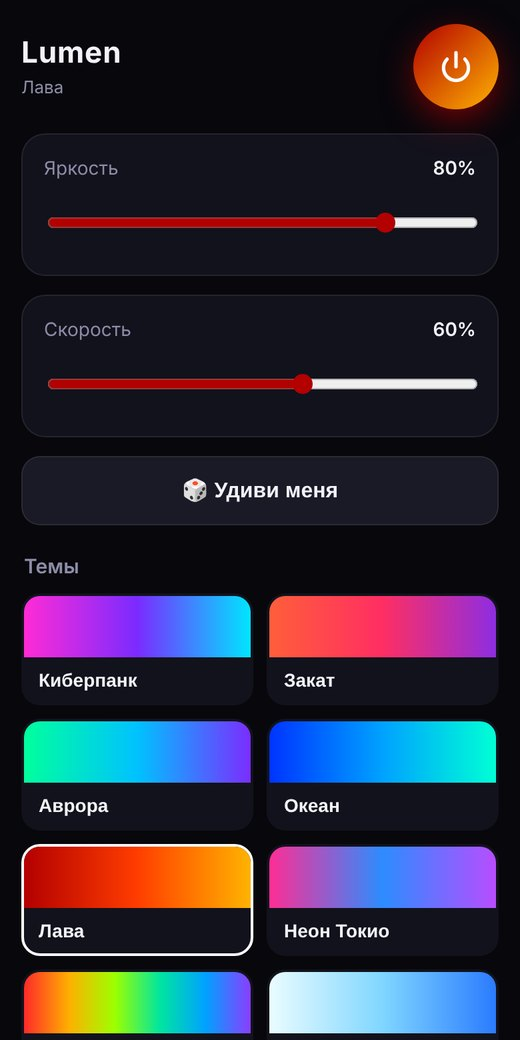
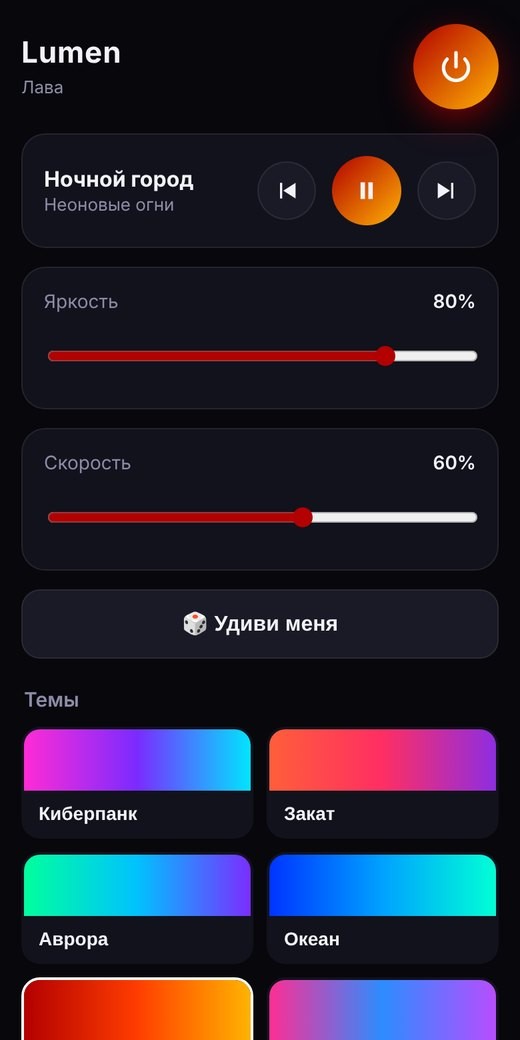
README: новые скриншоты и описание (плеер, виджеты с кнопками, стили, поиск, уведомления); 2.12.3: видимый значок паузы на белых акцентах
Claude-Session: https://claude.ai/code/session_01JcJcj891ukA1819nBtvFLd

diff --git a/src/renderer/live.html b/src/renderer/live.html
@@ -87,6 +87,7 @@
     /* Акценты белым вместо цветов темы */
     #w.ac-white{--a:#ffffff;--b:#cfd3ff}
     #w.ac-white .bar i{background:rgba(255,255,255,.85)}
+    #w.ac-white .mu .cb.pp svg{fill:#14121f}
   </style>
 </head>
 <body>

diff --git a/README.md b/README.md
@@ -31,6 +31,7 @@
 - **Одна программа вместо пяти.** У каждого производителя своя утилита для подсветки, и они мешают друг другу. Lumen управляет всем сразу: встроенный движок [OpenRGB](https://openrgb.org) и «Динамическая подсветка» Windows 11.
 - **Красиво из коробки.** 19 готовых тем — нажал, и подсветка, цвет Windows и обои на рабочем столе стали одного настроения.
 - **Не мешает играть.** Почти не тратит процессор и видеокарту, сам замирает в играх и полноэкранных окнах.
+- **Музыка, погода и система — прямо на рабочем столе.** Виджеты с плеером, текстом песни, календарём и нагрузкой компьютера, в цвет подсветки.
 - **Бесплатно и открыто.** Без рекламы, регистрации и сбора данных. Весь код — здесь, установщик собирается автоматически на GitHub.
 
 ## Что умеет
@@ -41,19 +42,40 @@
 
 <p align="center"><img src="docs/media/effects.jpg" alt="Эффекты" width="880"></p>
 
-### 🖥 Рабочий стол под цвет подсветки
+### 🎵 Музыка
 
-Lumen красит **панель задач, меню «Пуск» и окна** в цвет темы и меняет обои: живые волны, абстракции или **фото в высоком разрешении** из каталога Wallhaven — под твой монитор, со слайд-шоу. Выйдешь из Lumen — прежнее оформление вернётся.
+- **Плеер прямо в Lumen** — обложка и кнопки «назад / пауза / вперёд» для Spotify, Яндекс Музыки, браузера и Медиаплеера Windows.
+- **Цвет под музыку** — подсветка, цвет Windows и обои берут цвета с обложки трека.
+- **Реакция на звук** — подсветка пульсирует в такт.
+
+<p align="center"><img src="docs/media/home.jpg" alt="Главный экран с плеером" width="880"></p>
 
 ### 📊 Виджеты на рабочем столе
 
-**Часы, погода с прогнозом на 3 дня, загрузка и температура** процессора, памяти и видеокарты, скорость сети, **«Сейчас играет» с обложкой и строчкой из текста песни**, календарь и заметка — прямо на обоях, за значками. Четыре стиля оформления (стекло, плотные, без подложки, неон), разные шрифты часов, любой угол и размер.
+Прямо на обоях, за значками:
+
+- **часы** и дата, **погода** с прогнозом на 3 дня;
+- **нагрузка** процессора, памяти и видеокарты, температура, сеть, диск;
+- **«Сейчас играет»** — обложка, **кнопки плеера, которые нажимаются прямо на рабочем столе**, и **строчка из текста песни**, которая звучит в эту секунду;
+- **календарь** на месяц и **заметка** с любым текстом.
 
 <p align="center"><img src="docs/media/wallpaper.jpg" alt="Живые обои и виджеты на рабочем столе" width="880"></p>
 
+Четыре стиля — стекло, плотные, без подложки, неон — три шрифта часов, акценты в цвет подсветки или белые, любой угол и размер. Виджеты почти не тратят ресурсов и замирают, когда рабочий стол закрыт игрой или окном.
+
+<p align="center"><img src="docs/media/widget-styles.jpg" alt="Четыре стиля виджетов" width="880"></p>
+
+### 🖥 Windows под цвет подсветки
+
+Lumen красит **панель задач, меню «Пуск» и окна** в цвет темы и меняет обои: живые волны, абстракции или **фото в высоком разрешении** из каталога Wallhaven — под твой монитор, со слайд-шоу. Выйдешь из Lumen — прежнее оформление вернётся.
+
+### 🔔 Подсветка от уведомлений
+
+Пришло сообщение в Discord, Telegram, WhatsApp или VK — подсветка вспыхивает цветом приложения. **Вспышку видно на любой подсветке**: перед ней свет на миг гаснет, а если цвет приложения похож на текущий, Lumen берёт самый непохожий. Текст сообщений Lumen не читает.
+
 ### 📱 Пульт на телефоне
 
-Наведи камеру на QR-код в настройках — и управляй подсветкой с телефона: включить, выключить, яркость, темы. **Без приложений**, прямо в браузере, только в твоей домашней сети.
+Наведи камеру на QR-код в настройках — и управляй с телефона: включить, выключить, яркость, темы и **переключение треков**. **Без приложений**, прямо в браузере, только в твоей домашней сети.
 
 <p align="center">
   <img src="docs/media/phone.jpg" alt="Пульт на телефоне" height="420">
@@ -61,30 +83,28 @@ Lumen красит **панель задач, меню «Пуск» и окна*
   <img src="docs/media/settings-phone.jpg" alt="QR-код в настройках" height="420">
 </p>
 
-### 🎵 Подсветка, которая живёт
-
-- **Плеер прямо в Lumen** — обложка и кнопки «назад / пауза / вперёд» для Spotify, Яндекс Музыки и браузера, в окне и на телефоне.
-- **Цвет под музыку** — берёт цвета с обложки трека в Spotify, Яндекс Музыке или YouTube.
-- **Реакция на звук** — пульсирует в такт.
-- **Цвет экрана** — повторяет картинку на мониторе, как Ambilight.
-- **Температура** — синий, когда видеокарта холодная, красный, когда горячая.
-- **Уведомления** — мягкая вспышка цветом Discord, Telegram, WhatsApp, VK.
-
-<p align="center"><img src="docs/media/settings-widgets.jpg" alt="Настройки виджетов и уведомлений" width="880"></p>
-
 ### 🎮 Сценарии
 
 Запустил игру — включилась её тема. Ночью — тёплый ночник или полная темнота. Отошёл от компьютера или заблокировал его — подсветка погасла. Вернулся — зажглась. **Горячие клавиши** работают даже в играх.
 
 <p align="center"><img src="docs/media/scenes.jpg" alt="Сценарии" width="880"></p>
 
-И ещё: **поиск по всем настройкам** (Ctrl+K), мини-гайд для новичков при первом запуске, **автообновление** с проверкой контрольной суммы, отчёт о проблеме одной кнопкой, интерфейс на **русском, английском, украинском, немецком и испанском**.
+### 🔍 И ещё
+
+- **Поиск по всему Lumen** — Ctrl+K: вбей «обои», «яркость» или «Лава», и Lumen сразу перейдёт к нужной настройке, теме или эффекту.
+- **Цвет экрана** (как Ambilight) и **температура** видеокарты — отдельные эффекты.
+- **Автообновление** с проверкой контрольной суммы, **отчёт о проблеме** одной кнопкой, мини-гайд для новичков.
+- Интерфейс на **русском, английском, украинском, немецком и испанском**.
+
+<p align="center"><img src="docs/media/search.jpg" alt="Поиск по настройкам" width="880"></p>
 
 ## Какое железо поддерживается
 
 Lumen работает через [OpenRGB](https://openrgb.org/devices.html) — он знает **тысячи устройств**: материнские платы ASUS Aura, MSI Mystic Light, Gigabyte RGB Fusion, ASRock, видеокарты, оперативную память (G.Skill, Kingston Fury, Corsair и др.), контроллеры вентиляторов и ленты, клавиатуры и мыши Corsair, Logitech, Razer, SteelSeries, HyperX. Плюс всё, что поддерживает «Динамическую подсветку» Windows 11.
 
-Подсветка оперативной памяти включается одной кнопкой — нужный драйвер Lumen поставит сам. А вентиляторы **Lian Li UNI FAN TL** Lumen умеет красить напрямую через их контроллер, без L-Connect (бета).
+- **Оперативная память** — включается одной кнопкой, нужный драйвер Lumen поставит сам.
+- **Вентиляторы и ленты на разъёмах платы** — Lumen сам подставит количество светодиодов, а точное число выбирается кнопками 8 · 12 · 16 · 24 · 40 · 60 · 80.
+- **Вентиляторы Lian Li UNI FAN TL** — напрямую через их контроллер, без L-Connect (бета).
 
 ## Установка
 
@@ -110,7 +130,13 @@ Free code signing provided by [SignPath.io](https://about.signpath.io), certific
 <details>
 <summary><b>Это безопасно?</b></summary>
 
-Код полностью открыт, а установщик собирается из него автоматически на серверах GitHub — каждую версию можно проверить. Lumen ничего не отправляет в интернет, кроме запросов погоды, фото для обоев (если включил) и проверки обновлений. Текст твоих уведомлений он не читает — только от какого приложения они пришли.
+Код полностью открыт, а установщик собирается из него автоматически на серверах GitHub — каждую версию можно проверить. Lumen ходит в интернет только за погодой, фото для обоев и текстами песен (если они включены) и за обновлениями. Текст твоих уведомлений он не читает — только от какого приложения они пришли.
+</details>
+
+<details>
+<summary><b>Кнопки плеера на рабочем столе — не забанят ли в играх?</b></summary>
+
+Lumen замечает щелчки по кнопкам виджета, только пока виден рабочий стол: как только открыта игра на весь экран или развёрнутое окно, слежение за мышью полностью выключается. Lumen ничего не нажимает за тебя и не трогает другие программы — так же работают Discord («нажми и говори»), OBS и G HUB. Если хочется полного спокойствия, кнопки выключаются в настройках виджетов («кнопки плеера»).
 </details>
 
 <details>
@@ -136,7 +162,7 @@ Free code signing provided by [SignPath.io](https://about.signpath.io), certific
 
 ## English
 
-**Lumen** is a free, open-source Windows 10/11 app that controls all your PC RGB lighting from one place — motherboard, GPU, RAM, fans, keyboard and mouse — without SignalRGB, iCUE or vendor tools. It ships with 19 themes and 15 effects (wave, fire, music-reactive, screen ambient, GPU temperature), matches the Windows accent color and wallpaper to your lighting, shows desktop widgets (clock, weather, system load), flashes on notifications, takes colors from the album art of the current track and can be controlled from your phone. The UI is available in English, Russian, Ukrainian, German and Spanish.
+**Lumen** is a free, open-source Windows 10/11 app that controls all your PC RGB lighting from one place — motherboard, GPU, RAM, fans, keyboard and mouse — without SignalRGB, iCUE or vendor tools. It ships with 19 themes and 15 effects (wave, fire, music-reactive, screen ambient, GPU temperature) and matches the Windows accent color and wallpaper to your lighting. Desktop widgets show the clock, weather, PC load, a calendar, a note and **now playing** — with album art, clickable player buttons right on the desktop and the current line of the lyrics. Lumen also has a built-in media player card, notification flashes that stay visible on any lighting, colors from the album art, a phone remote and search across all settings (Ctrl+K). The UI is available in English, Russian, Ukrainian, German and Spanish.
 
 [**Download the latest version**](https://github.com/1MPOSS1BLE228/Lumen/releases/latest). If Windows Smart App Control blocks the installer, see the [install guide (PDF, Russian)](docs/install-guide.pdf) — in short: Windows Security → App & browser control → Smart App Control settings → Off.
 

diff --git a/CHANGELOG.md b/CHANGELOG.md
@@ -1,5 +1,10 @@
 # Что нового в Lumen
 
+## 2.12.3
+
+### 🛠 Исправлено
+- В стиле виджетов с белыми акцентами значок паузы был белым на белой кнопке — теперь он тёмный и хорошо виден.
+
 ## 2.12.2
 
 ### 🛠 Исправлено
